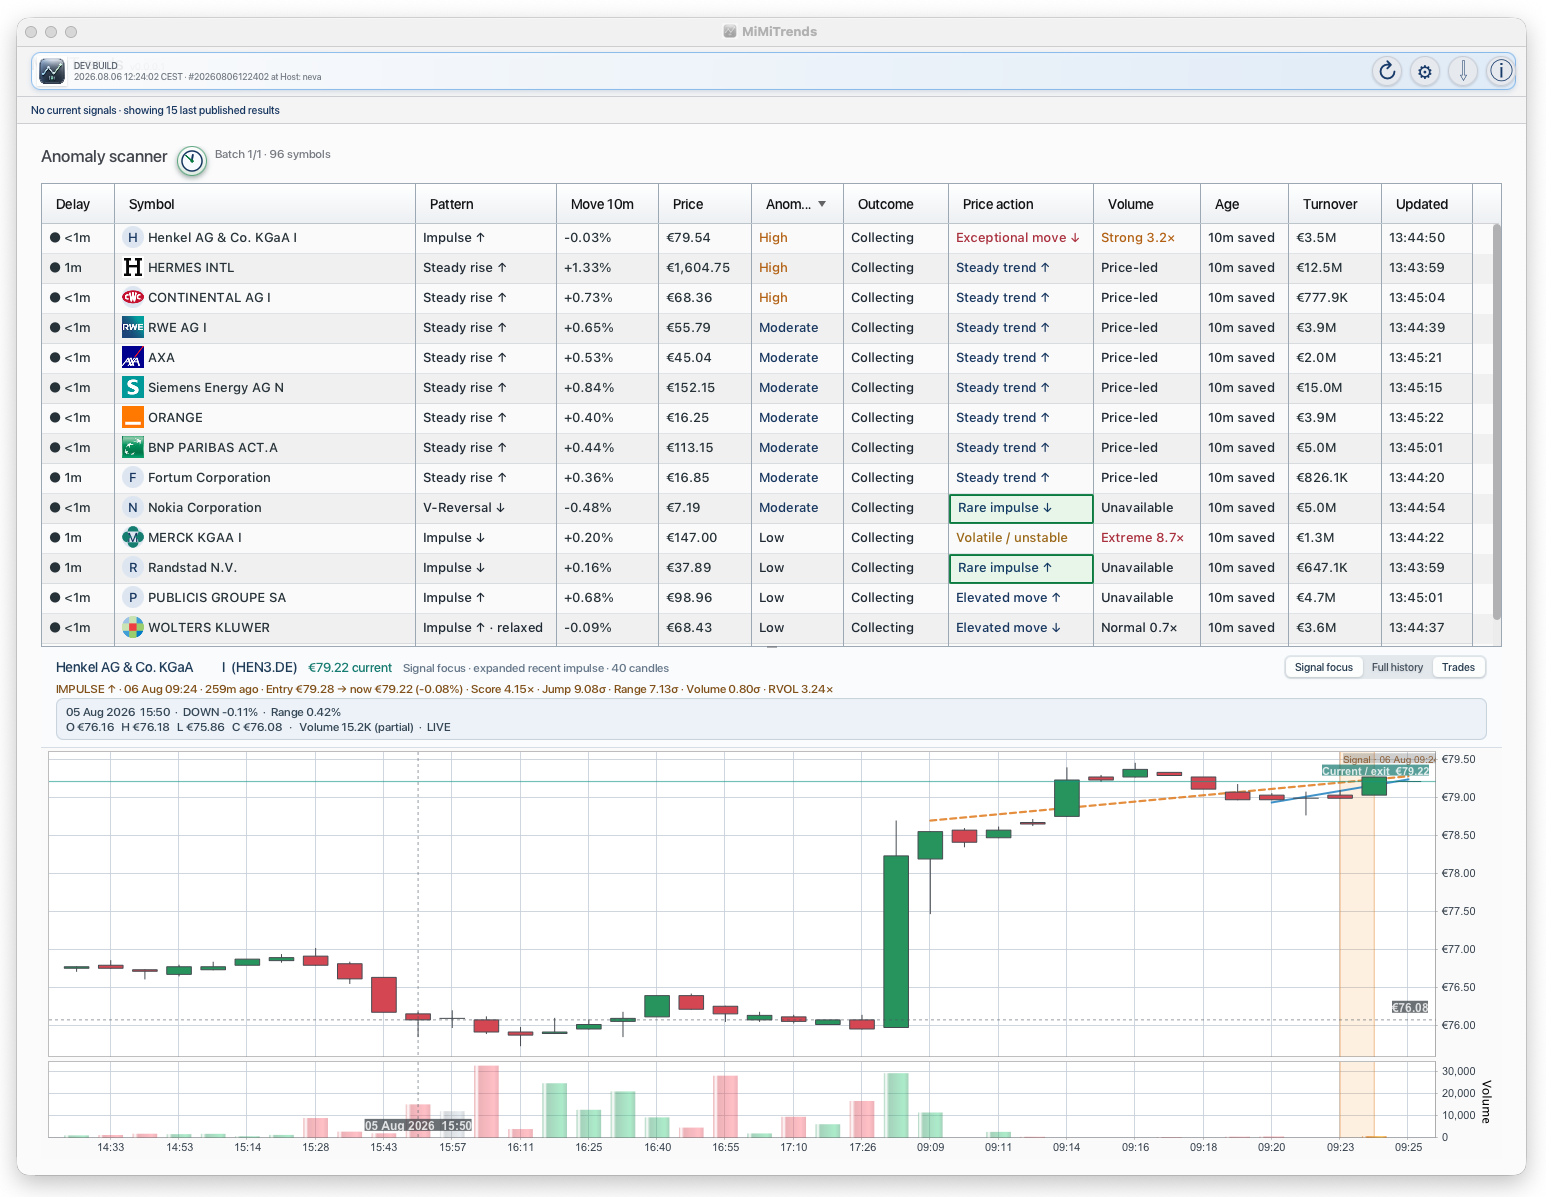
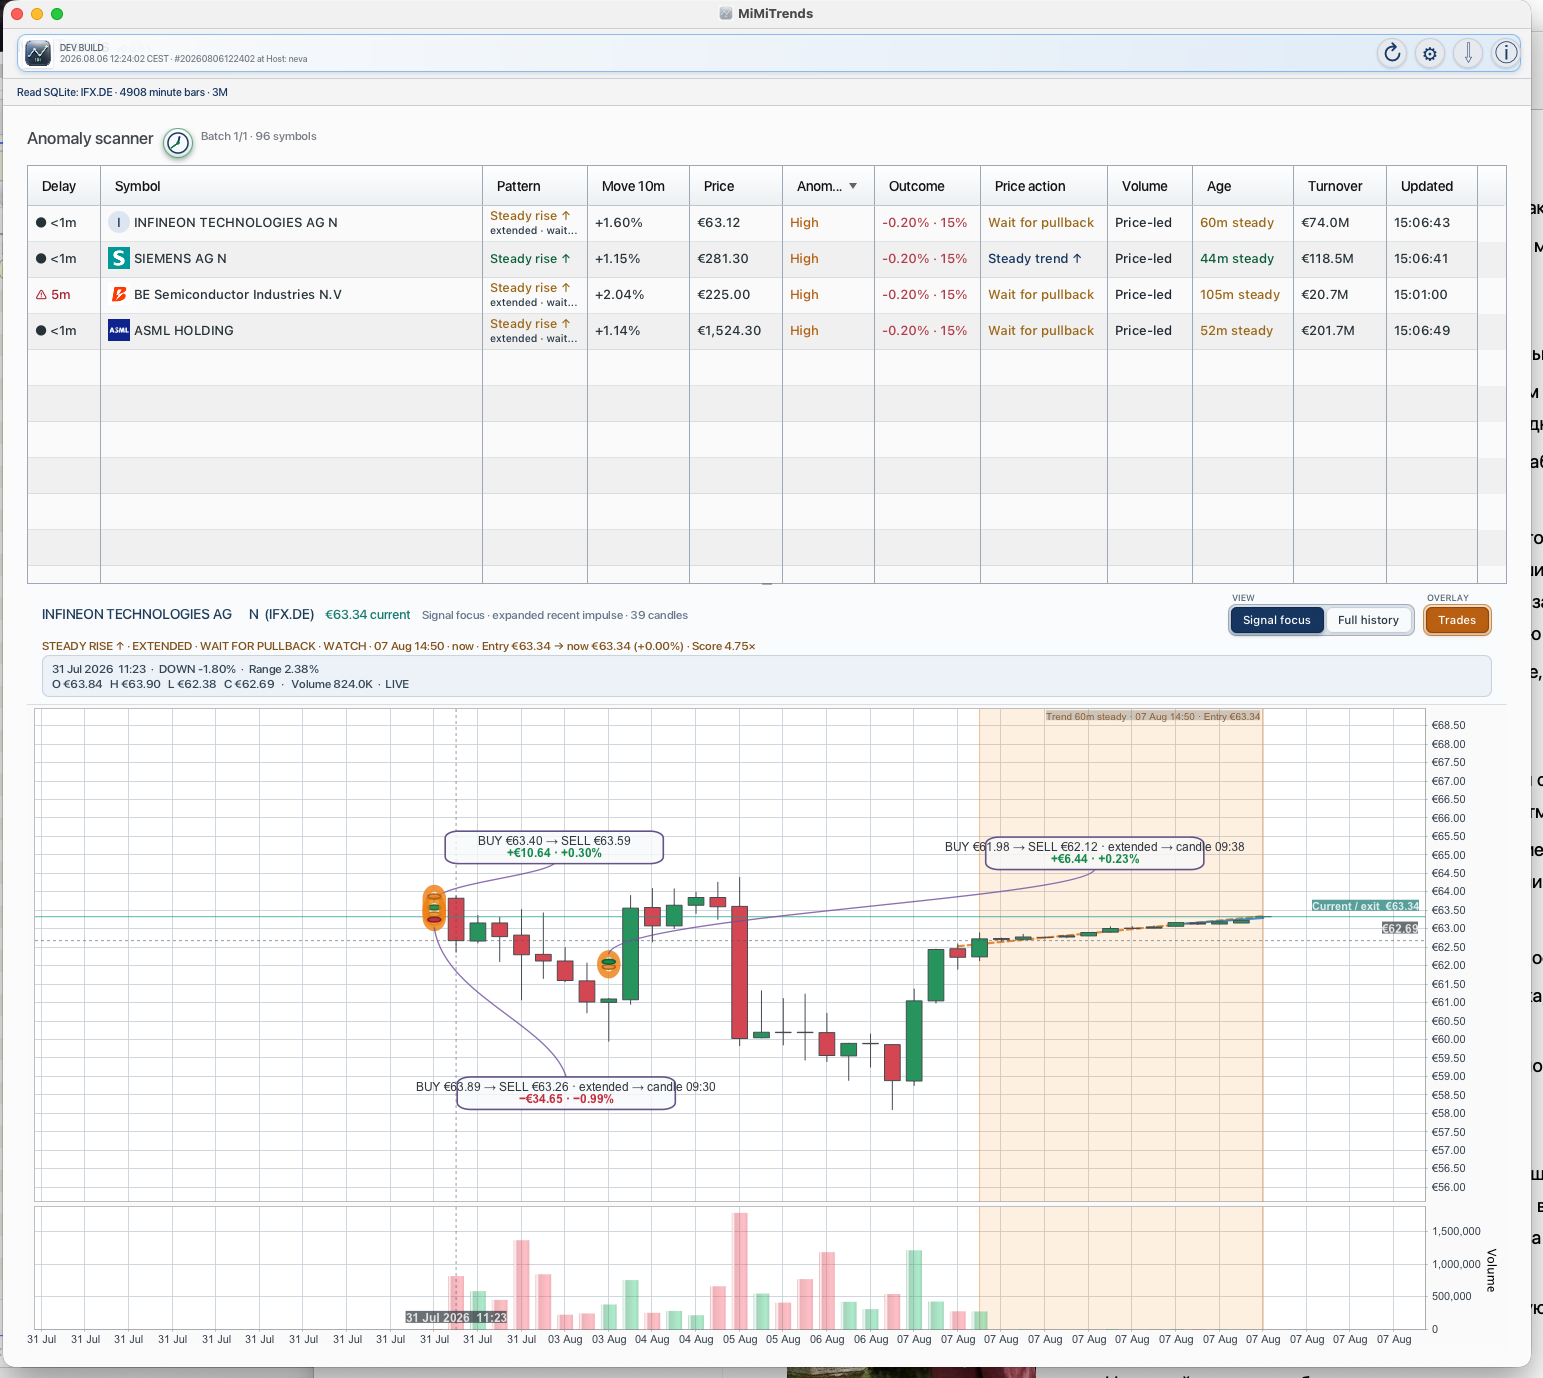
NEW:  connect rounded trade cards to highlights

Changed region(s): [[0.0, 0.0, 1.0, 1.0]]

diff --git a/charts/src/main/kotlin/org/senatov/mimitrends/charts/BrokerTradeAnnotations.kt b/charts/src/main/kotlin/org/senatov/mimitrends/charts/BrokerTradeAnnotations.kt
@@ -1,6 +1,5 @@
 package org.senatov.mimitrends.charts
 
-import org.jfree.chart.annotations.XYBoxAnnotation
 import org.jfree.chart.annotations.XYAnnotation
 import org.jfree.chart.annotations.XYShapeAnnotation
 import org.jfree.chart.annotations.XYTextAnnotation
@@ -64,7 +63,7 @@ internal class BrokerTradeAnnotations(private val plot: XYPlot) {
             val entryY = trade.entryPrice * barPriceMultiplier
             val exitY = (trade.exitPrice ?: trade.entryPrice) * barPriceMultiplier
             val controlX = (entryX + exitX) / 2.0
-            addTradeHighlight(trade, bars, entryX, exitX, timeStep, priceSpan,
+            val highlight = addTradeHighlight(trade, bars, entryX, exitX, timeStep, priceSpan,
                 barPriceMultiplier)
             val entryAlignment = alignToCandle(trade.entryEpochSeconds, trade.entryPrice,
                 bars, timeStep, barPriceMultiplier, displayMillis)
@@ -80,7 +79,7 @@ internal class BrokerTradeAnnotations(private val plot: XYPlot) {
             val preferredX = stored?.let { domainMin + (it.x * (domainMax - domainMin)) } ?: controlX
             val preferredBottom = stored?.let { rangeMin + (it.y * (rangeMax - rangeMin)) }
                 ?: (candleRangeMax + (priceSpan * (CARD_GAP + ((index % MAX_LEVELS) * CARD_LEVEL_GAP))))
-            addCard(key, trade, preferredX, preferredBottom, timeStep, priceSpan,
+            addCard(key, trade, highlight, preferredX, preferredBottom, timeStep, priceSpan,
                 domainMin, domainMax, rangeMin, rangeMax, entryAlignment, exitAlignment)
         }
     }
@@ -118,7 +117,7 @@ internal class BrokerTradeAnnotations(private val plot: XYPlot) {
         timeStep: Double,
         priceSpan: Double,
         multiplier: Double
-    ) {
+    ): HighlightAnchor {
         val exitEpoch = trade.exitEpochSeconds ?: bars.last().minuteEpochSeconds
         val covered = bars.filter { it.minuteEpochSeconds in trade.entryEpochSeconds..exitEpoch }
         val exitPrice = trade.exitPrice ?: trade.entryPrice
@@ -132,6 +131,7 @@ internal class BrokerTradeAnnotations(private val plot: XYPlot) {
         add(RoundRectangle2D.Double(
             left, bottom, right - left, height, timeStep * 1.6, priceSpan * 0.09
         ).let { XYShapeAnnotation(it, HIGHLIGHT_STROKE, HIGHLIGHT_ORANGE, HIGHLIGHT_FILL) })
+        return HighlightAnchor((left + right) / 2.0, bottom, bottom + height)
     }
 
     fun clear() {
@@ -155,6 +155,7 @@ internal class BrokerTradeAnnotations(private val plot: XYPlot) {
     private fun addCard(
         key: TradeKey,
         trade: BrokerTrade,
+        highlight: HighlightAnchor,
         x: Double,
         y: Double,
         timeStep: Double,
@@ -184,11 +185,41 @@ internal class BrokerTradeAnnotations(private val plot: XYPlot) {
         } ?: "Open position · ${formatter.format(trade.quantity)} shares"
         val bounds = cardBounds(x, y, timeStep, priceSpan, domainMin, domainMax, rangeMin, rangeMax)
         renderedCards += RenderedCard(key, bounds, domainMin, domainMax, rangeMin, rangeMax)
-        add(XYBoxAnnotation(bounds.left, bounds.bottom, bounds.right, bounds.top,
-            BasicStroke(1.1f), Color(255, 255, 255, 225), Color(247, 249, 251, 238)))
+        addCardConnector(highlight, bounds, timeStep)
+        val cardShape = RoundRectangle2D.Double(
+            bounds.left,
+            bounds.bottom,
+            bounds.width,
+            bounds.height,
+            timeStep * CARD_CORNER_BARS,
+            bounds.height * CARD_CORNER_HEIGHT_SHARE
+        )
+        add(XYShapeAnnotation(cardShape, CARD_STROKE, CARD_BORDER, CARD_FILL))
         add(text(title + sessionNote, bounds.centerX, bounds.bottom + bounds.height * 0.68,
             Color(48, 55, 63), Font.PLAIN))
         add(text(pnl, bounds.centerX, bounds.bottom + bounds.height * 0.30, pnlColor(trade), Font.BOLD))
+    }
+
+    private fun addCardConnector(highlight: HighlightAnchor, card: CardBounds, timeStep: Double) {
+        val cardIsAbove = card.bottom >= highlight.top
+        val startY = if (cardIsAbove) highlight.top else highlight.bottom
+        val endY = if (cardIsAbove) card.bottom else card.top
+        val endX = card.centerX
+        val direction = if (cardIsAbove) 1.0 else -1.0
+        val bend = (endX - highlight.centerX).coerceIn(-timeStep * 3.0, timeStep * 3.0)
+        val verticalDistance = kotlin.math.abs(endY - startY)
+        val path = Path2D.Double().apply {
+            moveTo(highlight.centerX, startY)
+            curveTo(
+                highlight.centerX + bend * 0.15,
+                startY + direction * verticalDistance * 0.45,
+                endX - bend * 0.25,
+                endY - direction * verticalDistance * 0.35,
+                endX,
+                endY
+            )
+        }
+        add(XYShapeAnnotation(path, CARD_CONNECTOR_STROKE, CARD_CONNECTOR))
     }
 
     internal fun cardBounds(
@@ -281,6 +312,11 @@ internal class BrokerTradeAnnotations(private val plot: XYPlot) {
         val HIGHLIGHT_ORANGE = Color(238, 126, 18, 205)
         val HIGHLIGHT_FILL = Color(255, 190, 48, 34)
         val HIGHLIGHT_STROKE = BasicStroke(7.0f, BasicStroke.CAP_ROUND, BasicStroke.JOIN_ROUND)
+        val CARD_BORDER = Color(88, 69, 126, 235)
+        val CARD_FILL = Color(247, 249, 251, 205)
+        val CARD_CONNECTOR = Color(112, 78, 160, 205)
+        val CARD_STROKE = BasicStroke(1.6f, BasicStroke.CAP_ROUND, BasicStroke.JOIN_ROUND)
+        val CARD_CONNECTOR_STROKE = BasicStroke(1.35f, BasicStroke.CAP_ROUND, BasicStroke.JOIN_ROUND)
         val CONNECTOR_STROKE = BasicStroke(1.3f, BasicStroke.CAP_ROUND, BasicStroke.JOIN_ROUND,
             0f, floatArrayOf(5f, 5f), 0f)
         const val HIGHLIGHT_PADDING = 0.035
@@ -289,6 +325,8 @@ internal class BrokerTradeAnnotations(private val plot: XYPlot) {
         const val CARD_GAP = 0.035
         const val CARD_LANE_SHARE = 0.24
         const val CARD_LEVEL_GAP = 0.012
+        const val CARD_CORNER_BARS = 1.2
+        const val CARD_CORNER_HEIGHT_SHARE = 0.42
         const val CARD_FLIP_GAP = 0.04
         const val CARD_EDGE_PADDING_BARS = 0.5
         const val CARD_EDGE_PADDING_SHARE = 0.02
@@ -306,11 +344,13 @@ internal class BrokerTradeAnnotations(private val plot: XYPlot) {
 
     internal data class CardBounds(val left: Double, val bottom: Double, val right: Double, val top: Double) {
         val centerX: Double get() = (left + right) / 2.0
+        val width: Double get() = right - left
         val height: Double get() = top - bottom
         fun contains(x: Double, y: Double): Boolean = x in left..right && y in bottom..top
     }
 
     private data class TradeKey(val symbol: String, val entryEpoch: Long, val exitEpoch: Long?)
+    private data class HighlightAnchor(val centerX: Double, val bottom: Double, val top: Double)
     private data class ActiveDrag(val key: TradeKey, val domainOffset: Double, val rangeOffset: Double)
     private data class NormalizedPoint(val x: Double, val y: Double)
     private data class RenderedCard(

diff --git a/charts/src/test/kotlin/org/senatov/mimitrends/charts/BrokerTradeAnnotationsTest.kt b/charts/src/test/kotlin/org/senatov/mimitrends/charts/BrokerTradeAnnotationsTest.kt
@@ -1,6 +1,5 @@
 package org.senatov.mimitrends.charts
 
-import org.jfree.chart.annotations.XYBoxAnnotation
 import org.jfree.chart.annotations.XYShapeAnnotation
 import org.jfree.chart.annotations.XYTextAnnotation
 import org.jfree.chart.plot.XYPlot
@@ -74,7 +73,7 @@ class BrokerTradeAnnotationsTest {
         renderer.render(listOf(trade), bars, bars.filterIndexed { index, _ -> index % 2 == 0 }, 1.0)
 
         assertTrue(renderer.renderedCardBounds().single().centerX > initial.centerX)
-        assertEquals(1, plot.annotations.count { it is XYBoxAnnotation })
+        assertEquals(5, plot.annotations.count { it is XYShapeAnnotation })
         assertEquals(2, plot.annotations.count { it is XYTextAnnotation })
     }
 }

diff --git a/README.md b/README.md
@@ -16,9 +16,10 @@ MiMiTrends is informational software. It does not place orders, provide investme
 
 <img src="./Doc/MainWindow.png" alt="MiMiTrends scanner and signal-focused chart" width="900">
 
-*Freshness is the first sortable column. The scanner combines current signals with the latest useful
-published context, while the lower pane shows the selected event, minute candles, volume, entry,
-current price, and the exact OHLCV value beneath the cursor.*
+*Freshness is the first sortable column. The scanner combines current signals with defensible
+long-term growth candidates, while the lower pane shows the selected event, minute candles, volume,
+entry, current price, and executed trades. Rounded trade cards can be dragged away from the candles;
+curved purple leaders keep every explanation associated with its orange trade interval.*
 
 ### Scanner settings
 
@@ -32,7 +33,9 @@ Each analytical field includes a short explanation of what it changes.*
 <img src="./Doc/BrokerCsvImport.png" alt="Importing a Scalable Capital transaction CSV into MiMiTrends" width="900">
 
 *The import action accepts a Scalable Capital transaction export. Imported executions can be shown
-on the corresponding price chart without sending portfolio or transaction data to a remote service.*
+on the corresponding price chart without sending portfolio or transaction data to a remote service.
+Rows marked `Cancelled` or `Cancel` are ignored, and legacy cancelled rows are removed from the local
+transaction table during import.*
 
 ## Quick start
 
@@ -82,9 +85,10 @@ The primary question is not “What did this stock do over the last year?” but
 - pauses scanning while every selected market is closed and resumes after the earliest next opening;
 - displays quote age in the leading `Delay` column and sorts it numerically, distinguishing current
   observations from stale ones without hiding delayed-but-useful European candidates;
-- provides a signal-focused chart with a full-history fallback;
+- provides a signal-focused chart with a consistently styled full-history fallback;
 - imports Scalable Capital transaction CSV files and outlines each matching trade interval on the
-  chart with a translucent orange highlighter-style frame;
+  chart with a translucent orange highlighter-style frame, a draggable rounded explanation card,
+  and a curved purple leader that keeps multiple trades identifiable;
 - remembers window geometry, divider position, table appearance, columns, and the selected instrument.
 
 ## Reading the scanner table
@@ -375,7 +379,14 @@ Selecting a scanner row opens its locally stored candles and volume.
 - real OHLC, candle return, and volume for the candle nearest the cursor;
 - stronger background grid lines for accurate visual comparison;
 - a `Full history` switch for broader context;
+- a `Trades` overlay with translucent rounded cards, clear borders, curved purple leaders, and
+  preserved drag positions in both chart modes;
 - pan, zoom, synchronized time/price cursors, and tooltips.
+
+Holding the pointer over a scanner row for five seconds performs one bounded focused refresh while
+the market is open. The row's `Delay` cell shows an hourglass during the request. The refreshed
+signal, statistics, provider tail, and chart are applied only to the currently relevant symbol, and
+a per-symbol cooldown prevents repeated provider polling while the pointer remains nearby.
 
 Switching instruments resets all chart ranges after datasets, signal markers, and trade overlays are
 installed. This prevents a high-priced instrument from leaving an unusable price scale on the next chart.
@@ -494,9 +505,11 @@ org.senatov.mimitrends.LauncherKt
 5. Wait for the initial historical bootstrap and completed scan.
 6. Sort by `Delay` to inspect freshness, or by anomaly, price action, volume, and ten-minute move.
 7. Hover derived cells to inspect the exact statistical values.
-8. Select a row to open its signal-focused chart.
-9. Move the cursor across the chart to inspect candle OHLCV values.
-10. Switch to `Full history` only when broader context is needed.
+8. Hold the pointer over a row for five seconds to request a focused online refresh; the `Delay`
+   cell shows an hourglass until it completes.
+9. Select a row to open its signal-focused chart.
+10. Move the cursor across the chart to inspect candle OHLCV values, or drag a trade card to uncover candles.
+11. Switch to `Full history` when broader context is needed; trade-card styling and positions are preserved.
 
 Settings and UI state are stored beside the database under:
 
@@ -523,6 +536,10 @@ separate JDK installation.
 The script requires Xcode Command Line Tools and a `Developer ID Application` certificate in the
 login Keychain. It automatically selects the first matching certificate, signs the application and
 embedded native libraries, builds the DMG, verifies it, and prints its location and SHA-256 hash.
+Before every DMG attempt it atomically increments the application patch version in
+`gradle.properties`. Decimal carry is intentional: `1.0.9` becomes `1.1.0`. The same value is then
+used for the title bar, About dialog, JAR manifest, generated build metadata, package metadata, and
+DMG filename.
 Use an explicit identity when more than one suitable certificate is installed:
 
 ```bash

diff --git a/Doc/NativePackaging.md b/Doc/NativePackaging.md
@@ -23,13 +23,12 @@ The project wrapper builds a signed DMG and automatically selects the first avai
 ./Scripts/build-macos-dmg.zsh
 ```
 
-A Developer ID signed DMG:
+A Developer ID signed DMG is built through the same wrapper with an explicit identity:
 
 ```zsh
 security find-identity -v -p codesigning
 
-MAC_SIGNING_KEY_USER_NAME="Iakov Senatov (G2V9T9AD95)" \
-  ./gradlew :app:packageMacDmg
+./Scripts/build-macos-dmg.zsh --identity "Iakov Senatov (G2V9T9AD95)"
 ```
 
 Before `jpackage` runs, the Gradle pipeline extracts dependency JARs containing macOS native
@@ -57,9 +56,9 @@ xcrun notarytool store-credentials "MiMiNotary" \
 Then build, sign, submit to Apple, wait for acceptance, staple the ticket, and validate it:
 
 ```zsh
-APPLE_NOTARY_PROFILE="MiMiNotary" \
-MAC_SIGNING_KEY_USER_NAME="Iakov Senatov (G2V9T9AD95)" \
-  ./gradlew :app:packageNotarizedMacDmg
+./Scripts/build-macos-dmg.zsh --notarize \
+  --identity "Iakov Senatov (G2V9T9AD95)" \
+  --profile "MiMiNotary"
 ```
 
 The equivalent shorter command is:
@@ -73,10 +72,16 @@ CI may use App Store Connect API credentials instead of a keychain profile by se
 Output:
 
 ```text
-app/build/distributions/native/macos/MiMiTrends-1.0.1.dmg
+app/build/distributions/native/macos/MiMiTrends-<version>.dmg
 ```
 
-The package task deliberately fails when `MAC_SIGNING_KEY_USER_NAME` is absent. This prevents an ad-hoc signed application from being mistaken for a distributable Developer ID build.
+The wrapper increments `appVersion` in `gradle.properties` before every DMG attempt and passes that
+exact version to Gradle. Version components carry at ten (`1.0.9` becomes `1.1.0`). The application
+label, About dialog, generated build information, JAR manifest, `jpackage` metadata, and DMG filename
+therefore use one value. Calling the DMG Gradle task without the wrapper is rejected, preventing a
+package from being created without its required version increment.
+
+The package task also deliberately fails when `MAC_SIGNING_KEY_USER_NAME` is absent. This prevents an ad-hoc signed application from being mistaken for a distributable Developer ID build.
 
 ## Windows
 
@@ -106,7 +111,7 @@ Use `--portable-only` or `--deb-only` when only one Linux format is needed.
 
 This creates:
 
-- a portable `MiMiTrends-1.0.1-linux-<arch>.tar.gz` containing an executable and private runtime;
+- a portable `MiMiTrends-<version>-linux-<arch>.tar.gz` containing an executable and private runtime;
 - a Debian/Ubuntu `.deb` package with a desktop-menu entry.
 
 Files are written below:
@@ -117,6 +122,8 @@ app/build/distributions/native/linux/
 
 ## Versions and secrets
 
-The user-facing project version begins at `0.0.0.1`. The native package version is normalized to `1.0.1`, because `jpackage` accepts at most three numeric components and macOS package versions require a positive first component. Build IDs remain independently generated and appear in the title bar and About dialog.
+The repository stores one three-component `appVersion` in `gradle.properties`. DMG builds advance
+the patch digit automatically, carrying into minor and major digits as necessary. Build IDs remain
+independently generated and appear alongside the application version in the title bar and About dialog.
 
 Certificates, Apple passwords, API private keys, and notarization profiles are never stored in the repository. Pass only identity names or environment variables to Gradle.

diff --git a/Doc/README.md b/Doc/README.md
@@ -1,6 +1,8 @@
 # MiMiTrends documentation assets
 
 - `AppIcon-1024.png` — application icon source used by the README and packaging tasks.
-- `MainWindow.png` — current main-window screenshot used by the project README.
+- `MainWindow.png` — current scanner and signal-chart screenshot, including draggable trade cards
+  and their curved trade-interval leaders.
 
-The main project README also documents the hybrid market-data pipeline: Yahoo Finance supplies cached history and fallback data, while an optional user-owned Finnhub key enables live WebSocket trade aggregation. European Yahoo delay labels are intentionally visible in the scanner.
+The main project README also documents the hybrid market-data pipeline, focused five-second hover
+refresh, adaptive long-candidate fallback, broker-trade overlays, and native package versioning.

diff --git a/Doc/AnalyticsStorage.md b/Doc/AnalyticsStorage.md
@@ -26,6 +26,9 @@ foreign keys, and independent tests.
 | `signal_excursions`     | In-progress high/low return tracking for active published signals.                      |
 | `broker_transactions`   | Deduplicated Scalable operations with optional links to saved scanner signals.           |
 
+Scalable imports discard rows whose status is `Cancelled` or `Cancel` (case-insensitive) and remove
+previously stored cancelled rows before matching executions into chart trades.
+
 ## Data flow
 
 1. Yahoo or Finnhub bars are UPSERTed into `minute_bars`.
